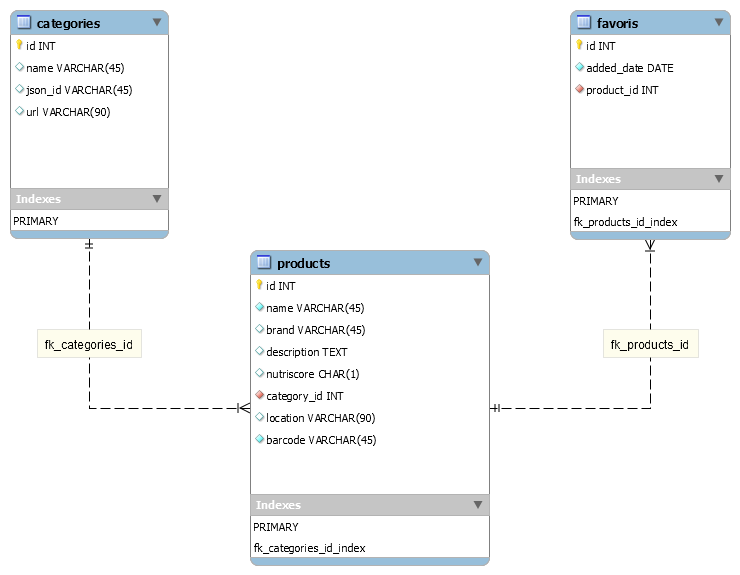
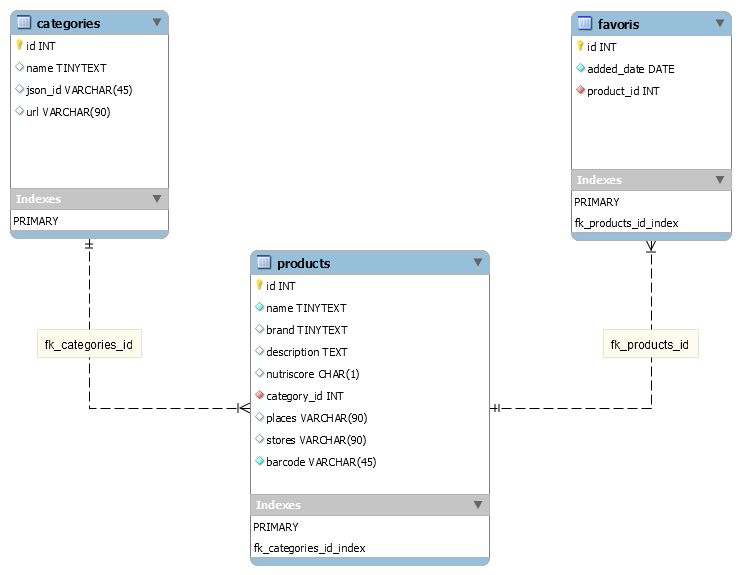
Update Documentation with new changes

diff --git a/README.md b/README.md
@@ -29,11 +29,12 @@ La base de données est composée de 3 tables :
 |----------------|-----------------------|------|--------|--------|---------------|
 |id              |INT(10), Unsigned      |NO    |PRI     |NULL    |Auto_increment |
 |name            |TINYTEXT               |NO    |        |NULL    |               |
-|brand           |VARCHAR(90)            |YES   |        |NULL    |               |
+|brand           |TINYTEXT               |YES   |        |NULL    |               |
 |description     |TEXT                   |YES   |        |NULL    |               |
 |nutriscore      |CHAR(1)                |YES   |        |NULL    |               |
 |category_id     |INT(10), Unsigned      |NO    |MUL     |NULL    |               |
-|location        |VARCHAR(90)            |YES   |        |NULL    |               |
+|places          |VARCHAR(90)            |YES   |        |NULL    |               |
+|stores          |VARCHAR(90)            |YES   |        |NULL    |               |
 |barcode         |VARCHAR(45)            |NO    |        |NULL    |               |
 
  - **Favoris** : Cette base contiendra principalement l'ID des produits ajoutés en tant que Favoris par l'utilisateur final. 
@@ -79,8 +80,11 @@ L'ajout des catégories dans la base se fait par l'intermédiaire de deux fichie
 A l'instar des catégories, l'ajout des produits se fait par l'intermédiaire de deux fichiers python "**./products.py**" et "**./inject_products.py**".
 
  - **./products.py** : 
-Contient la classe **Product**, utilisée pour sélectionner les différents produits qui seront injectés dans la Table **Products** de la base. La méthode **_get_products** se charge de récupérer les produits contenus visibles depuis l'URL (**exemple** :  https://fr.openfoodfacts.org/categorie/sauces-tomates-au-basilic.json) renseignée en paramètre lors de l'instanciation de la classe. Le nombre de produits à récupérer est également précisé lors de l'instanciation.
+Contient la classe **Product**, utilisée pour retourner un produit lors de l'instanciation qui pourra par la suite être injecté dans la Table **Products** de la base. La méthode **_get_products** se charge de récupérer les produits contenus visibles depuis l'URL (**exemple** :  https://fr.openfoodfacts.org/categorie/sauces-tomates-au-basilic.json) renseignée en paramètre lors de l'instanciation de la classe. 
 Les produits sont affichés par 20, pour accéder aux suivants, il est nécessaire de changer de page (l'exemple ci-dessus permet d'accéder à la première page). Pour cela, il est nécessaire de modifier l'URL pour indiquer une page différente, si nous reprenons l'exemple précédent, il faudra ajouter "**/2**" avant "**.json**". L'algorithme se charge donc de récupérer le nombre de produits total contenus dans la catégorie que l'on divise par 20. L'arrondi supérieur du résultat obtenu permet alors d'obtenir le nombre de page que la catégorie contient. Un numéro de page est alors défini aléatoirement afin de récupérer la liste des produits qu'elle contient. Un produit est alors sélectionné (également aléatoirement) dans cette liste.
 
  - **./inject_products.py** : 
 L'instanciation de la classe **Product** se fait dans ce fichier. Ce fichier se connecte à la base pour notamment récupérer la liste des catégories préalablement injectées. Le champ **url** des catégories est utilisé lors de l'instanciation de la classe, les produits récupérés sont alors injectés dans la base.
+Plusieurs tests sont effectués dans ce fichier, notamment pour vérifier que le produit n'est pas déjà présent dans la base pour éviter les doublons. Certains produits (très peu) sont apparus sans nom dans le **JSON**, ce qui peut poser problème pour l'application... Ces produits sont donc filtrés pour éviter un problème éventuel. 
+Le nombre de produits à injecter dans la base est maintenant défini dans ce fichier (dans la version précédente, c'était géré par la classe **Products**). 
+Lorsque le script rencontre une erreur dans les tests, il essaye de trouver un autre produit "éventuellement" conforme. Au bout de 3 essais, l'itération est passée. Si le script devait récupérer 10 produits, il y en aura donc un de moins etc...
